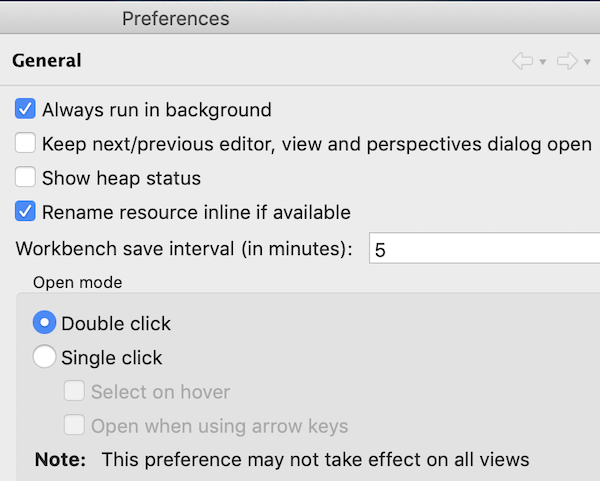
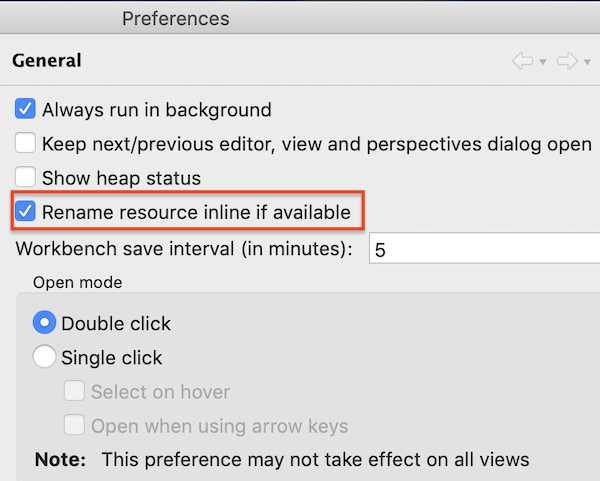
Bug 560536 - [Project Explorer] Preference for "inline rename" N&N update

Changed region(s): [[0.0, 0.3742, 0.63, 0.499]]

diff --git a/4.16/platform.html b/4.16/platform.html
@@ -94,7 +94,7 @@ ul {padding-left: 13px;}
   <tr id="inline-rename-mode-preference"> <!-- https://bugs.eclipse.org/bugs/show_bug.cgi?id=560536 -->
     <td class="title">Preference to inline rename resource</td>
     <td class="content">
-      The preference added in 4.15 has been changed from radio button to a check box.
+      The <b>preference</b> to rename resource inline or by dialog was added in 4.15 as a radio button has now been changed to a check box. 
       <p> 
         <img src="images/inlineRenameResource.png" alt=""/>
       </p>
